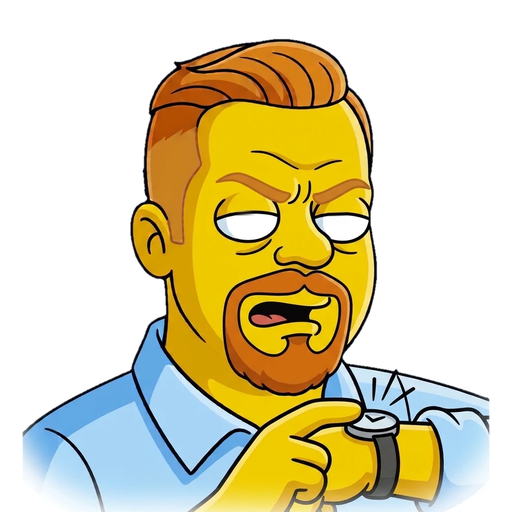
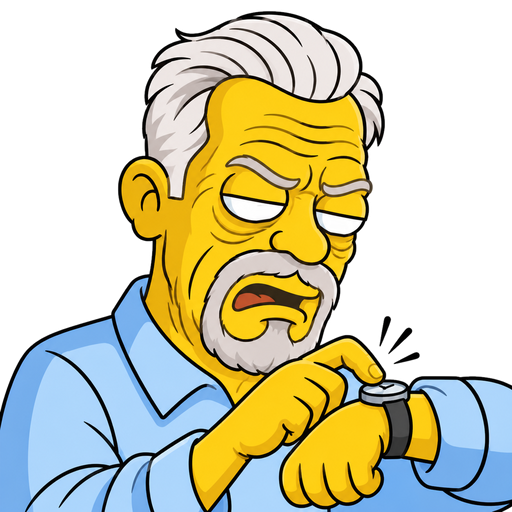
Build 39: new w3 face (Old) with eye-shaped lids and tilt-following pupils

diff --git a/index.html b/index.html
@@ -300,9 +300,9 @@ function mergePeople(S,from,to){
 // </core>
 
 /* ======================= APP ======================= */
-const APP_VERSION=38; // build number (= sw.js cache shranck-shell-vN); users see the label
+const APP_VERSION=39; // build number (= sw.js cache shranck-shell-vN); users see the label
 const APP_LABEL='1.5';
-const PATCH_NOTES=[{v:38,label:'1.5',date:'2026-11-10',title:'Pick a date',notes:['Admin: delivery and order-by dates now use a calendar picker','Order page: removed the tiny up/down arrows in the quantity boxes — use − / +','Try ordering half of something that only comes whole. Go on.']},{v:21,label:'1.4',date:'2026-11-10',title:'He’s watching you',notes:['New unimpressed photo on the Help page','Photos no longer open bigger when you click them','On big desktop screens, two giant mascots watch you from the sides of the Order page','Their eyes follow your mouse wherever it goes, and they blink']},{v:17,label:'1.3',date:'2026-11-10',title:'Table view + locking',notes:['Bigger logo — tap it to see it full size','Home-screen icon is now the logo too','App name is now Schrank App',"Tap “🔒 I'm done” at the bottom to lock your order; tap Unlock to change it, until the admin locks everyone",'Admin: “Lock everyone” button at the top, and a 🔒 next to people who are done','Order page: switch between Cards and a compact Table view (top right)','Table shows price, per-unit cost, your order, your cost and case status in one row per item','Your choice is remembered on this device']},{v:10,label:'1.2',date:'2026-11-10',title:'Nicer buttons + safer admin',notes:['Quantity − / + buttons are evenly spaced, with symbols drawn perfectly centered','Buttons animate when you hover or press them','Admin: view-only until you tap Edit, so nothing changes by accident','Admin: “+ New round” button next to the round picker','Order page: removed the round label so the menu starts higher','Admin button shows 🔒 when admin is off and 🔓 when it’s on','Admin: shortfalls no longer highlighted yellow','Cleaner layout: a taller top bar with the tabs in it, lined up with the page']},{v:3,label:'1.1',date:'2026-11-10',title:'Order history',notes:['New logo in the header (tab title stays Schrank App)','Admin: new History tab shows who ordered each item first, plus every change with its time','Admin: the case-gap fixer now lists people earliest-first, so first in keeps priority']},{v:1,label:'1.0',date:'2026-11-10',title:'First release',notes:['Pick your name once, then enter what you want per item','See your estimated cost and the delivery date','Live case tracker shows when an item lines up to full cases','Admin: set up rounds, resolve case gaps, lock, and export to Excel']}];
+const PATCH_NOTES=[{v:39,label:'1.5',date:'2026-11-10',title:'Pick a date',notes:['Admin: delivery and order-by dates now use a calendar picker','Order page: removed the tiny up/down arrows in the quantity boxes — use − / +','Try ordering half of something that only comes whole. Go on.']},{v:21,label:'1.4',date:'2026-11-10',title:'He’s watching you',notes:['New unimpressed photo on the Help page','Photos no longer open bigger when you click them','On big desktop screens, two giant mascots watch you from the sides of the Order page','Their eyes follow your mouse wherever it goes, and they blink']},{v:17,label:'1.3',date:'2026-11-10',title:'Table view + locking',notes:['Bigger logo — tap it to see it full size','Home-screen icon is now the logo too','App name is now Schrank App',"Tap “🔒 I'm done” at the bottom to lock your order; tap Unlock to change it, until the admin locks everyone",'Admin: “Lock everyone” button at the top, and a 🔒 next to people who are done','Order page: switch between Cards and a compact Table view (top right)','Table shows price, per-unit cost, your order, your cost and case status in one row per item','Your choice is remembered on this device']},{v:10,label:'1.2',date:'2026-11-10',title:'Nicer buttons + safer admin',notes:['Quantity − / + buttons are evenly spaced, with symbols drawn perfectly centered','Buttons animate when you hover or press them','Admin: view-only until you tap Edit, so nothing changes by accident','Admin: “+ New round” button next to the round picker','Order page: removed the round label so the menu starts higher','Admin button shows 🔒 when admin is off and 🔓 when it’s on','Admin: shortfalls no longer highlighted yellow','Cleaner layout: a taller top bar with the tabs in it, lined up with the page']},{v:3,label:'1.1',date:'2026-11-10',title:'Order history',notes:['New logo in the header (tab title stays Schrank App)','Admin: new History tab shows who ordered each item first, plus every change with its time','Admin: the case-gap fixer now lists people earliest-first, so first in keeps priority']},{v:1,label:'1.0',date:'2026-11-10',title:'First release',notes:['Pick your name once, then enter what you want per item','See your estimated cost and the delivery date','Live case tracker shows when an item lines up to full cases','Admin: set up rounds, resolve case gaps, lock, and export to Excel']}];
 let S,ME=null,ADM=false,ADM_RID=null,ADM_TAB='grid',ADM_EDIT=false,ORDER_VIEW=(()=>{try{return localStorage.getItem('shranck_view')==='table'?'table':'cards'}catch(e){return 'cards'}})(),TAB='order',pending=null,viewBrk=false;
 // READY: first remote snapshot seen, or local-only fallback (sync error / no snapshot within 4s). remoteLoaded: a real snapshot arrived.
 let READY=false,remoteLoaded=false,NAME_OPEN=false,PENDING_PIN=null,QUEUE=new Set();
@@ -390,11 +390,11 @@ const FACES={norm:{img:'mascot.png',eyes:EYES,nose:[303,245,32,26],skin:'#f8cf01
   meh:{img:'unimpressed.png',eyes:[{c:[248,214],p:[248,214],m:[17,2],dn:14,lc:[248,221],lid:[32,15],clip:'219,217 220,216 221,216 222,216 223,215 224,215 225,215 226,215 227,214 228,214 229,214 230,214 231,214 232,213 233,213 234,213 235,213 236,213 237,213 238,213 239,213 240,212 241,212 242,212 243,212 244,212 245,212 246,212 247,212 248,212 249,212 250,212 251,211 252,211 253,211 254,211 255,211 256,211 257,211 258,211 259,211 260,211 261,211 262,211 263,211 264,212 265,212 266,212 267,212 268,212 269,212 270,212 271,212 272,212 273,212 274,213 275,213 276,213 277,213 277,218 276,221 275,223 274,224 273,225 272,226 271,227 270,228 269,229 268,230 267,230 266,231 265,231 264,232 263,232 262,233 261,233 260,233 259,234 258,234 257,234 256,234 255,235 254,235 253,235 252,235 251,235 250,235 249,235 248,235 247,235 246,235 245,235 244,235 243,235 242,235 241,235 240,234 239,234 238,234 237,234 236,233 235,233 234,233 233,230 232,229 231,228 230,229 229,230 228,230 227,229 226,229 225,228 224,222 223,222 222,222 221,223 220,221 219,221',pr:7.5},{c:[338,214],p:[338,214],m:[17,2],dn:14,lc:[338,221],lid:[31,15],clip:'309,214 310,214 311,214 312,214 313,214 314,214 315,214 316,214 317,213 318,213 319,213 320,212 321,212 322,212 323,212 324,212 325,212 326,212 327,212 328,212 329,212 330,212 331,212 332,212 333,212 334,212 335,212 336,212 337,212 338,212 339,212 340,212 341,212 342,212 343,212 344,212 345,212 346,212 347,213 348,213 349,213 350,213 351,213 352,213 353,213 354,214 355,214 356,214 357,214 358,214 359,215 360,215 361,215 362,215 363,216 364,216 365,216 366,217 367,217 367,221 366,223 365,225 364,226 363,227 362,228 361,229 360,230 359,231 358,232 357,232 356,233 355,233 354,234 353,234 352,235 351,235 350,235 349,235 348,236 347,236 346,236 345,236 344,236 343,236 342,236 341,236 340,236 339,236 338,236 337,236 336,236 335,236 334,236 333,236 332,236 331,235 330,235 329,235 328,234 327,234 326,234 325,233 324,232 323,231 322,229 321,231 320,231 319,230 318,230 317,229 316,228 315,226 314,225 313,223 312,221 311,219 310,217 309,217',pr:7.5}],nose:[300,245,30,24],skin:'#efc900',cash:false},
   w1:{img:'watch1.png',full:true,eyes:[{c:[247,219],p:[247,231],m:[17,2],dn:15,lc:[247.5,226],lid:[34,17],clip:'219,219 220,219 221,218 222,218 223,218 224,217 225,217 226,217 227,216 228,216 229,216 230,216 231,215 232,215 233,215 234,215 235,215 236,215 237,214 238,214 239,214 240,214 241,214 242,214 243,214 244,213 245,213 246,213 247,213 248,213 249,213 250,213 251,213 252,213 253,213 254,213 255,213 256,213 257,213 258,213 259,213 260,213 261,213 262,213 263,213 264,214 265,214 266,214 267,214 268,214 269,214 270,215 271,215 272,215 273,215 274,215 275,216 276,216 277,216 277,222 276,225 275,227 274,229 273,230 272,231 271,232 270,233 269,234 268,234 267,235 266,235 265,236 264,236 263,237 262,237 261,238 260,238 259,238 258,239 257,239 256,239 255,239 254,239 253,239 252,239 251,240 250,240 249,240 248,240 247,240 246,240 245,239 244,239 243,239 242,239 241,239 240,239 239,239 238,238 237,238 236,238 235,237 234,237 233,237 232,236 231,236 230,236 229,235 228,235 227,234 226,231 225,228 224,223 223,222 222,221 221,221 220,221 219,221',pr:6.5},{c:[341,219.5],p:[341,231],m:[15,2],dn:15,lc:[341.5,226],lid:[31,17],clip:'316,218 317,218 318,217 319,217 320,217 321,217 322,216 323,216 324,216 325,216 326,216 327,215 328,215 329,215 330,215 331,215 332,215 333,215 334,215 335,215 336,215 337,215 338,214 339,214 340,214 341,214 342,214 343,215 344,215 345,215 346,215 347,215 348,215 349,215 350,215 351,215 352,215 353,215 354,216 355,216 356,216 357,216 358,216 359,217 360,217 361,217 362,217 363,218 364,218 365,218 366,219 367,219 368,219 368,224 367,227 366,229 365,231 364,232 363,233 362,234 361,235 360,235 359,236 358,237 357,237 356,238 355,238 354,239 353,239 352,239 351,239 350,240 349,240 348,240 347,240 346,240 345,240 344,240 343,240 342,240 341,240 340,240 339,240 338,240 337,240 336,240 335,240 334,239 333,239 332,239 331,237 330,236 329,235 328,234 327,233 326,232 325,232 324,231 323,227 322,227 321,226 320,227 319,226 318,224 317,222 316,222',pr:6.5}],nose:[302,248,30,24],skin:'#f3ce00',cash:false},
   w2:{img:'watch2.png',full:true,eyes:[{c:[247,219],p:[247,219],m:[17,2],dn:15,lc:[247.5,226],lid:[34,17],clip:'221,218 222,218 223,218 224,217 225,217 226,217 227,216 228,216 229,216 230,216 231,215 232,215 233,215 234,215 235,215 236,215 237,215 238,215 239,215 240,215 241,215 242,215 243,214 244,214 245,214 246,214 247,214 248,214 249,214 250,214 251,213 252,213 253,213 254,213 255,213 256,213 257,213 258,213 259,213 260,213 261,213 262,213 263,213 264,214 265,214 266,214 267,214 268,214 269,214 270,214 271,215 272,215 273,215 274,215 275,216 276,216 277,216 277,221 276,225 275,227 274,229 273,230 272,231 271,232 270,233 269,234 268,234 267,235 266,235 265,236 264,236 263,237 262,237 261,238 260,238 259,238 258,239 257,239 256,239 255,239 254,239 253,239 252,239 251,240 250,240 249,240 248,240 247,240 246,240 245,239 244,239 243,239 242,239 241,239 240,239 239,239 238,238 237,238 236,238 235,238 234,237 233,237 232,236 231,236 230,236 229,231 228,230 227,230 226,231 225,229 224,220 223,220 222,220 221,220',pr:6.5},{c:[341,219.5],p:[341,219.5],m:[15,2],dn:15,lc:[341.5,226],lid:[31,17],clip:'316,218 317,218 318,217 319,217 320,217 321,217 322,217 323,216 324,216 325,216 326,216 327,215 328,215 329,215 330,215 331,215 332,215 333,215 334,215 335,215 336,215 337,215 338,215 339,215 340,215 341,215 342,215 343,215 344,215 345,215 346,215 347,215 348,215 349,215 350,215 351,215 352,215 353,215 354,216 355,216 356,216 357,216 358,216 359,217 360,217 361,217 362,217 363,218 364,218 365,218 366,219 367,219 368,219 368,224 367,227 366,229 365,231 364,232 363,233 362,234 361,235 360,235 359,236 358,237 357,237 356,238 355,238 354,239 353,239 352,239 351,239 350,240 349,240 348,240 347,240 346,240 345,240 344,240 343,240 342,240 341,240 340,240 339,240 338,240 337,240 336,240 335,240 334,239 333,239 332,239 331,237 330,236 329,235 328,234 327,233 326,232 325,231 324,231 323,230 322,223 321,225 320,224 319,223 318,224 317,222 316,222',pr:6.5}],nose:[302,248,30,24],skin:'#f0cb00',cash:false},
-  w3:{img:'watch3.png',full:true,eyes:[{c:[247,219],p:[247,219],m:[17,2],dn:15,lc:[247.5,226],lid:[34,17],clip:'219,219 220,219 221,218 222,218 223,218 224,217 225,217 226,217 227,216 228,216 229,216 230,216 231,215 232,215 233,215 234,215 235,215 236,215 237,215 238,215 239,215 240,215 241,215 242,215 243,214 244,214 245,214 246,214 247,214 248,214 249,214 250,214 251,213 252,213 253,213 254,213 255,213 256,213 257,213 258,213 259,213 260,213 261,213 262,213 263,213 264,214 265,214 266,214 267,214 268,214 269,214 270,214 271,215 272,215 273,215 274,216 275,216 276,216 277,216 277,221 276,225 275,227 274,229 273,230 272,231 271,232 270,233 269,234 268,234 267,235 266,235 265,236 264,237 263,237 262,237 261,238 260,238 259,238 258,239 257,239 256,239 255,239 254,239 253,239 252,239 251,240 250,240 249,240 248,240 247,240 246,240 245,239 244,239 243,239 242,239 241,239 240,239 239,239 238,238 237,238 236,238 235,238 234,237 233,237 232,237 231,236 230,236 229,233 228,232 227,230 226,222 225,222 224,220 223,220 222,221 221,221 220,221 219,221',pr:6.5},{c:[341,219.5],p:[341,219.5],m:[15,2],dn:15,lc:[341.5,226],lid:[31,17],clip:'316,218 317,218 318,217 319,217 320,217 321,217 322,217 323,216 324,216 325,216 326,216 327,215 328,215 329,215 330,215 331,215 332,215 333,215 334,215 335,215 336,215 337,215 338,215 339,215 340,215 341,215 342,215 343,215 344,215 345,215 346,215 347,215 348,215 349,215 350,215 351,215 352,215 353,215 354,216 355,216 356,216 357,216 358,216 359,217 360,217 361,217 362,217 363,218 364,218 365,218 366,219 367,219 368,219 368,224 367,227 366,229 365,231 364,232 363,233 362,234 361,235 360,235 359,236 358,237 357,237 356,238 355,238 354,239 353,239 352,239 351,240 350,240 349,240 348,240 347,240 346,240 345,240 344,240 343,240 342,240 341,240 340,240 339,240 338,240 337,240 336,240 335,240 334,239 333,239 332,239 331,237 330,236 329,235 328,234 327,233 326,232 325,231 324,231 323,230 322,219 321,219 320,220 319,220 318,220 317,222 316,222',pr:6.5}],nose:[302,248,30,24],skin:'#f0cb00',cash:false}};
+  w3:{img:'watch3.png',full:true,eyes:[{c:[252,209],p:[252,209],m:[19,3],dn:7,sl:.17,lidp:'223,195 224,194 225,195 226,195 227,195 228,195 229,195 230,195 231,195 232,196 233,196 234,196 235,196 236,196 237,197 238,197 239,197 240,197 241,197 242,198 243,198 244,198 245,198 246,198 247,199 248,199 249,199 250,199 251,199 252,199 253,200 254,200 255,200 256,200 257,200 258,201 259,201 260,201 261,201 262,201 263,201 264,202 265,202 266,202 267,202 268,202 269,202 270,203 271,203 272,203 273,203 274,203 275,203 276,204 277,204 278,204 279,204 280,204 281,204 282,204 283,205 284,205 284,208 283,210 282,211 281,212 280,213 279,214 278,215 277,216 276,217 275,217 274,218 273,218 272,219 271,219 270,219 269,220 268,220 267,220 266,220 265,220 264,220 263,221 262,221 261,221 260,221 259,221 258,221 257,221 256,221 255,221 254,221 253,221 252,221 251,221 250,221 249,220 248,220 247,220 246,220 245,219 244,219 243,219 242,218 241,218 240,217 239,217 238,216 237,216 236,215 235,214 234,214 233,213 232,212 231,211 230,210 229,209 228,208 227,207 226,205 225,203 224,201 223,201',clip:'224,195 225,196 226,196 227,196 228,196 229,196 230,196 231,196 232,197 233,197 234,197 235,197 236,197 237,198 238,198 239,198 240,198 241,198 242,199 243,199 244,199 245,199 246,199 247,200 248,200 249,200 250,200 251,200 252,200 253,201 254,201 255,201 256,201 257,201 258,202 259,202 260,202 261,202 262,202 263,202 264,203 265,203 266,203 267,203 268,203 269,203 270,204 271,204 272,204 273,204 274,204 275,204 276,205 277,205 278,205 279,205 280,205 281,205 282,205 283,205 283,208 282,210 281,211 280,212 279,213 278,214 277,215 276,216 275,216 274,217 273,217 272,218 271,218 270,218 269,219 268,219 267,219 266,219 265,219 264,219 263,220 262,220 261,220 260,220 259,220 258,220 257,220 256,220 255,220 254,220 253,220 252,220 251,220 250,220 249,219 248,219 247,219 246,219 245,218 244,218 243,218 242,217 241,217 240,216 239,216 238,215 237,215 236,214 235,213 234,213 233,212 232,211 231,210 230,209 229,208 228,207 227,205 226,203 225,201 224,201',pr:4.5},{c:[338,223.5],p:[338,223.5],m:[15,3],dn:7,sl:.2,lidp:'315,211 316,210 317,210 318,210 319,211 320,211 321,211 322,211 323,211 324,212 325,212 326,212 327,212 328,212 329,213 330,213 331,213 332,213 333,214 334,214 335,214 336,214 337,214 338,215 339,215 340,215 341,215 342,215 343,216 344,216 345,216 346,216 347,216 348,217 349,217 350,217 351,217 352,217 353,218 354,218 355,218 356,218 357,218 358,218 359,218 360,219 361,219 362,220 363,220 363,222 362,224 361,226 360,227 359,228 358,229 357,230 356,231 355,231 354,232 353,233 352,233 351,234 350,234 349,234 348,235 347,235 346,235 345,235 344,235 343,235 342,235 341,235 340,234 339,234 338,234 337,234 336,234 335,234 334,233 333,233 332,233 331,233 330,232 329,232 328,231 327,231 326,230 325,229 324,229 323,228 322,227 321,226 320,225 319,224 318,221 317,218 316,213 315,213',clip:'316,211 317,211 318,211 319,212 320,212 321,212 322,212 323,212 324,213 325,213 326,213 327,213 328,213 329,214 330,214 331,214 332,214 333,215 334,215 335,215 336,215 337,215 338,216 339,216 340,216 341,216 342,216 343,217 344,217 345,217 346,217 347,217 348,218 349,218 350,218 351,218 352,218 353,219 354,219 355,219 356,219 357,219 358,219 359,219 360,220 361,220 362,220 362,222 361,224 360,226 359,227 358,228 357,229 356,230 355,230 354,231 353,232 352,232 351,233 350,233 349,233 348,234 347,234 346,234 345,234 344,234 343,234 342,234 341,234 340,233 339,233 338,233 337,233 336,233 335,233 334,232 333,232 332,232 331,232 330,231 329,231 328,230 327,230 326,229 325,228 324,228 323,227 322,226 321,225 320,224 319,221 318,218 317,213 316,213',pr:4.5}],nose:[288,236,26,22],skin:'#fed015',cash:false}};
 let FACE='',mascotUpd=null,IDLE_T=Date.now();
 function mascotFace(){const mm=me(),R=cur(),base=mm&&personCost(R,mm).total>200?'cash':'meh';if(!R||R.status==='locked'||(mm&&R.done[mm]))return base;
   const s=(Date.now()-IDLE_T)/1000;return s>=180?'w3':s>=120?'w2':s>=60?'w1':base}
-function mascotSvg(F,n){return F.eyes.map((e,i)=>e.clip?`<clipPath id="mc${n}${i}"><polygon points="${e.clip}"/></clipPath><g clip-path="url(#mc${n}${i})"><circle class="pu" data-e="${i}" cx="${e.p[0]}" cy="${e.p[1]}" r="${e.pr}" fill="#111"/></g><ellipse class="lid" cx="${e.lc[0]}" cy="${e.lc[1]}" rx="${e.lid[0]}" ry="${e.lid[1]}" fill="${F.skin}"/>`:`<circle cx="${e.p[0]}" cy="${e.p[1]}" r="${e.cov}" fill="#fff"/>`+(F.cash
+function mascotSvg(F,n){return F.eyes.map((e,i)=>e.clip?`<clipPath id="mc${n}${i}"><polygon points="${e.clip}"/></clipPath><g clip-path="url(#mc${n}${i})"><circle class="pu" data-e="${i}" cx="${e.p[0]}" cy="${e.p[1]}" r="${e.pr}" fill="#111"/></g>${e.lidp?`<polygon class="lid" points="${e.lidp}" fill="${F.skin}"/>`:`<ellipse class="lid" cx="${e.lc[0]}" cy="${e.lc[1]}" rx="${e.lid[0]}" ry="${e.lid[1]}" fill="${F.skin}"/>`}`:`<circle cx="${e.p[0]}" cy="${e.p[1]}" r="${e.cov}" fill="#fff"/>`+(F.cash
   ?`<text class="pu" data-e="${i}" x="${e.p[0]}" y="${e.p[1]}" text-anchor="middle" dominant-baseline="central" font-family="Arial Black,Arial,sans-serif" font-weight="900" font-size="${e.fs}" fill="#3a8d3f" stroke="#1b4a20" stroke-width="1.3">$</text>`
   :`<circle class="pu" data-e="${i}" cx="${e.p[0]}" cy="${e.p[1]}" r="6.5" fill="#111"/>`)+`<ellipse class="lid" cx="${e.c[0]}" cy="${e.c[1]}" rx="${e.lid[0]}" ry="${e.lid[1]}" fill="${F.skin}"/>`).join('')}
 function setMascotFace(f){if(f===FACE)return;FACE=f;const F=FACES[f];
@@ -415,7 +415,7 @@ function initMascots(){
     m.querySelectorAll('.pu').forEach(pu=>{const e=F.eyes[+pu.dataset.e],i=+pu.dataset.e?-1:1;pu.removeAttribute('transform');pos(pu,e.p[0],e.p[1]);
       const b=pu.getBoundingClientRect(),dx=mx-(b.left+b.width/2),dy=my-(b.top+b.height/2),d=Math.hypot(dx,dy)||1,t=Math.min(1,d/180);
       const tx=e.c[0]+(flip?-1:1)*dx/d*e.m[0]*t,ty=e.c[1]+dy/d*(dy>0&&e.dn?e.dn:e.m[1])*t,xx=e.c[0]+i*e.m[0],xy=e.c[1]+e.m[1]*.55;
-      pos(pu,tx+(xx-tx)*s,ty+(xy-ty)*s,flip)})});
+      const X=tx+(xx-tx)*s;pos(pu,X,ty+(xy-ty)*s+(e.sl||0)*(X-e.c[0]),flip)})});
     if(busy)q=requestAnimationFrame(upd);else last=0};
   mascotUpd=()=>{if(!q)q=requestAnimationFrame(upd)};
   document.addEventListener('mousemove',ev=>{mx=ev.clientX;my=ev.clientY;mascotUpd()});

diff --git a/sw.js b/sw.js
@@ -1,4 +1,4 @@
-const CACHE='shranck-shell-v38';
+const CACHE='shranck-shell-v39';
 self.addEventListener('install',e=>{e.waitUntil(caches.open(CACHE).then(c=>c.addAll(['./','index.html','manifest.webmanifest','icon.svg','icon-192.png','icon-512.png','favicon.ico','favicon.png','logo.png','logo-512.jpg','mascot.png','help-512.jpg','kaching.png','unimpressed.png','watch1.png','watch2.png','watch3.png','angry-512.jpg','crossarm-512.jpg','finger-512.jpg','icon-mask-192.png','icon-mask-512.png','apple-touch-icon.png']).catch(()=>{})));self.skipWaiting()});
 self.addEventListener('activate',e=>{e.waitUntil(caches.keys().then(k=>Promise.all(k.filter(x=>x!==CACHE).map(x=>caches.delete(x)))).then(()=>self.clients.claim()))});
 self.addEventListener('fetch',e=>{
